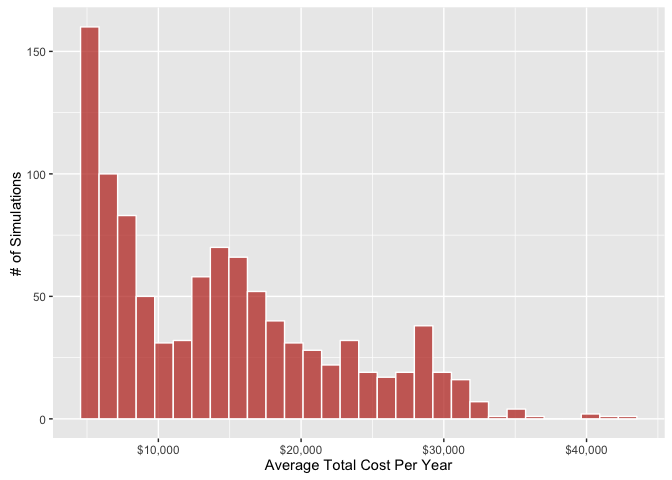
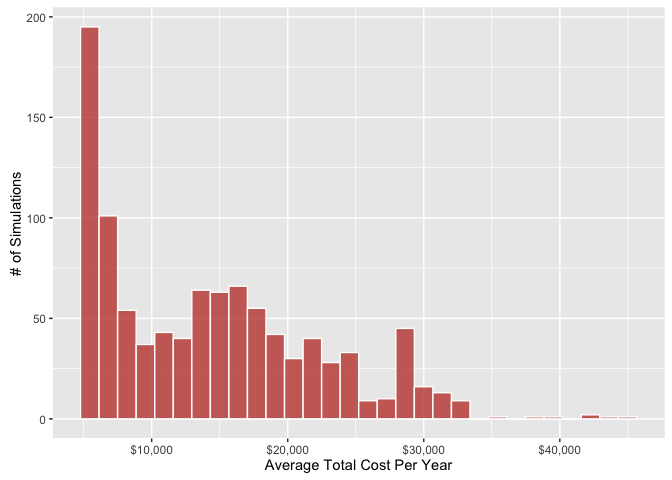
added post treatment

diff --git a/Utah_recidivism_model.md b/Utah_recidivism_model.md
@@ -4,13 +4,15 @@ Utah Recidivism Model
 About This Model
 ----------------
 
-The following code is to analyze data and make ballpark predictions about how much a reduction in recidivism could potentially save the State of Utah. We are specifically interested in parolees with co-occuring disorders (COD). As the statistician George Box [famously observed](https://en.wikipedia.org/wiki/All_models_are_wrong),
+The following code is to analyze data and make ballpark predictions about how much a parolee, on average, will cost the State of Utah. We are specifically interested in parolees with co-occuring disorders (COD).
+
+### Assumptions
+
+As the statistician George Box [famously observed](https://en.wikipedia.org/wiki/All_models_are_wrong),
 
 > All models are wrong but some are useful.
 
 I hope this one is useful.
-
-### Assumptions
 
 The greatest challenge in making predictions about the costs and benefits of the COD population is that the Justice Reinvestment Initiative (JRI) is old enough to affect outcomes in areas like recidivism, prison terms, crime frequencies, and parole sentences, but not old enough to collect reliable data on those effects. Therefore, I am forced to make several assumptions about the likely effects of the JRI on these outcomes. I will try to list some of the important ones below, but there are other assumptions throughout this notebook.
 
@@ -450,7 +452,7 @@ When run for a single person, the rows and columns look like this (although the 
 | 1     | 1            | 0                   | 0                |             | 0              | 1              | 18               | 0                       | 0                    | 0                   | 0                      | 0               | 0                     | 272.06               | 325                    |
 | 2     | 2            | 0                   | 0                |             | 0              | 1              | 18               | 0                       | 0                    | 0                   | 0                      | 0               | 0                     | 272.06               | 325                    |
 | 3     | 3            | 0                   | 0                |             | 0              | 1              | 18               | 0                       | 0                    | 0                   | 0                      | 0               | 0                     | 272.06               | 325                    |
-| 4     | 4            | 0                   | 0                |             | 0              | 1              | 18               | 0                       | 0                    | 0                   | 0                      | 0               | 0                     | 272.06               | 325                    |
+| 4     | 4            | 0                   | 0                |             | 0              | 1              | 18               | 0                       | 0                    | 0                   | 0                      | 1               | 1647                  | 272.06               | 325                    |
 | 5     | 5            | 0                   | 0                |             | 0              | 1              | 18               | 0                       | 0                    | 0                   | 0                      | 0               | 0                     | 272.06               | 325                    |
 | 6     | 6            | 0                   | 0                |             | 0              | 1              | 18               | 0                       | 0                    | 0                   | 0                      | 0               | 0                     | 272.06               | 325                    |
 | 7     | 7            | 0                   | 0                |             | 0              | 1              | 18               | 0                       | 0                    | 0                   | 0                      | 0               | 0                     | 272.06               | 325                    |
@@ -519,32 +521,36 @@ When run for a period of 5 years with 1,000 agents, the first few rows look like
 
 |  prison\_time|  months\_free|  prison\_costs|  avg\_prison\_cost\_per\_yr|  arrests|  total\_costs|  avg\_total\_cost\_per\_yr|  avg\_other\_cost\_per\_yr|
 |-------------:|-------------:|--------------:|---------------------------:|--------:|-------------:|--------------------------:|--------------------------:|
-|            25|            35|          62500|                       12500|        1|      92634.18|                  18526.836|                   6026.836|
-|             0|            60|              0|                           0|        0|      28200.43|                   5640.086|                   5640.086|
-|             2|            58|           5000|                        1000|        1|      37997.66|                   7599.532|                   6599.532|
-|            50|            10|         125000|                       25000|        1|     140922.60|                  28184.520|                   3184.520|
-|             0|            60|              0|                           0|        0|      28923.28|                   5784.656|                   5784.656|
-|             2|            58|           5000|                        1000|        1|      36894.78|                   7378.956|                   6378.956|
-|             4|            56|          10000|                        2000|        2|      54225.51|                  10845.102|                   8845.102|
-|            11|            49|          27500|                        5500|        1|      57351.23|                  11470.246|                   5970.246|
-|            32|            28|          80000|                       16000|        1|     164145.13|                  32829.026|                  16829.026|
-|             4|            56|          10000|                        2000|        2|      50438.02|                  10087.604|                   8087.604|
+|             8|            52|          20000|                        4000|        2|      55894.65|                  11178.930|                   7178.930|
+|             0|            60|              0|                           0|        0|      35511.28|                   7102.256|                   7102.256|
+|             0|            60|              0|                           0|        0|      33556.23|                   6711.246|                   6711.246|
+|             8|            52|          20000|                        4000|        4|      66046.13|                  13209.226|                   9209.226|
+|             0|            60|              0|                           0|        0|      29954.18|                   5990.836|                   5990.836|
+|            23|            37|          57500|                       11500|        3|      98965.22|                  19793.044|                   8293.044|
+|             0|            60|              0|                           0|        0|      29231.33|                   5846.266|                   5846.266|
+|             4|            56|          10000|                        2000|        2|      55041.69|                  11008.338|                   9008.338|
+|            37|            23|          92500|                       18500|        1|     116471.08|                  23294.216|                   4794.216|
+|             0|            60|              0|                           0|        0|      28615.23|                   5723.046|                   5723.046|
 
 Results
 =======
 
 Because of the model's stochastic nature, the results will vary slightly each time it is run. That said, with a large enough number of simulations (I reccomend over 1,000), the average results should begin to converge on a similar number.
 
-In the latest simulation of 1,000 agents, the average total cost per parolee per year was $14,302. The standard deviation was $7,991. Here is a histogram of the distribution of the average total cost per year. Some will cost the state very little, while others will cost tens of thousands of dollars:
+In the latest simulation of 1,000 agents, the average total cost per parolee per year was **$14,379**, with a standard deviation of $7,922. The median was $13,580. Here is a histogram of the distribution of the average total cost per year. Some will cost the state very little, while others will cost tens of thousands of dollars:
 
 ![](Utah_recidivism_model_files/figure-markdown_github/cost-1.png)
 
-The maximum cost in this simulation was $42,621. This would likely be someone who bounced in and out of prison very rapidly. On the other end are parolees who cost the state less than $6,939, which is the bottom quartile of annual costs. This group likely stayed out of prison, or only went back for a brief time period. Their costs are more associated with parole, health benefits, and shelters, in certain cases.
+The maximum cost in this simulation was $44,410. This would likely be someone who spent the majority of the 5 years in prison. On the other end are parolees who cost the state less than $6,669, which is the bottom quartile of annual costs. This group likely stayed out of prison, or only went back for a brief time period. Their costs are more associated with parole, health benefits, and shelters, in certain cases.
 
-Prison remains the largest cost factor for parolees. The average simulation resulted in prison costs of $30,000 per year, or 55.7% of the total cost.
+Prison remains the largest cost factor for parolees. The average simulation resulted in prison costs of $7,974 per year, or 55.5% of the total cost.
 
 ![](Utah_recidivism_model_files/figure-markdown_github/cost2-1.png)
 
-This is because, even accounting for JRI, more than one half of our COD population will return to prison within 5 years. In fact, many will return multiple times. In these simulations, several returned more than twice:
+This is because, even accounting for JRI, more than one half of our COD population will return to prison within 5 years. In fact, many will return multiple times. In these simulations, 18.6% returned more than twice:
 
 ![](Utah_recidivism_model_files/figure-markdown_github/returns-1.png)
+
+### With Treatment
+
+Assuming a recidivism reduction of 15%, instead of approximately $14,000, the average parolee will cost the state of Utah **$12,398**.
